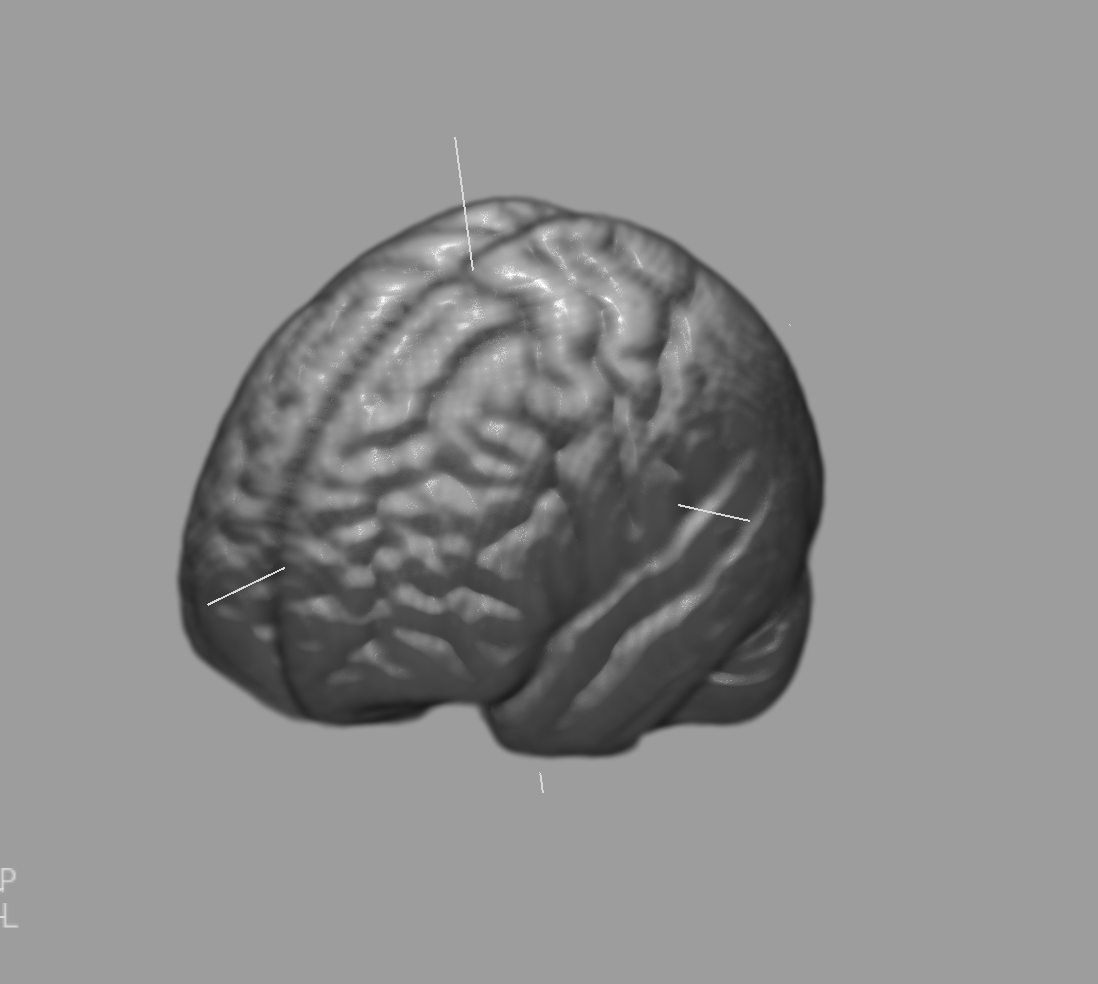
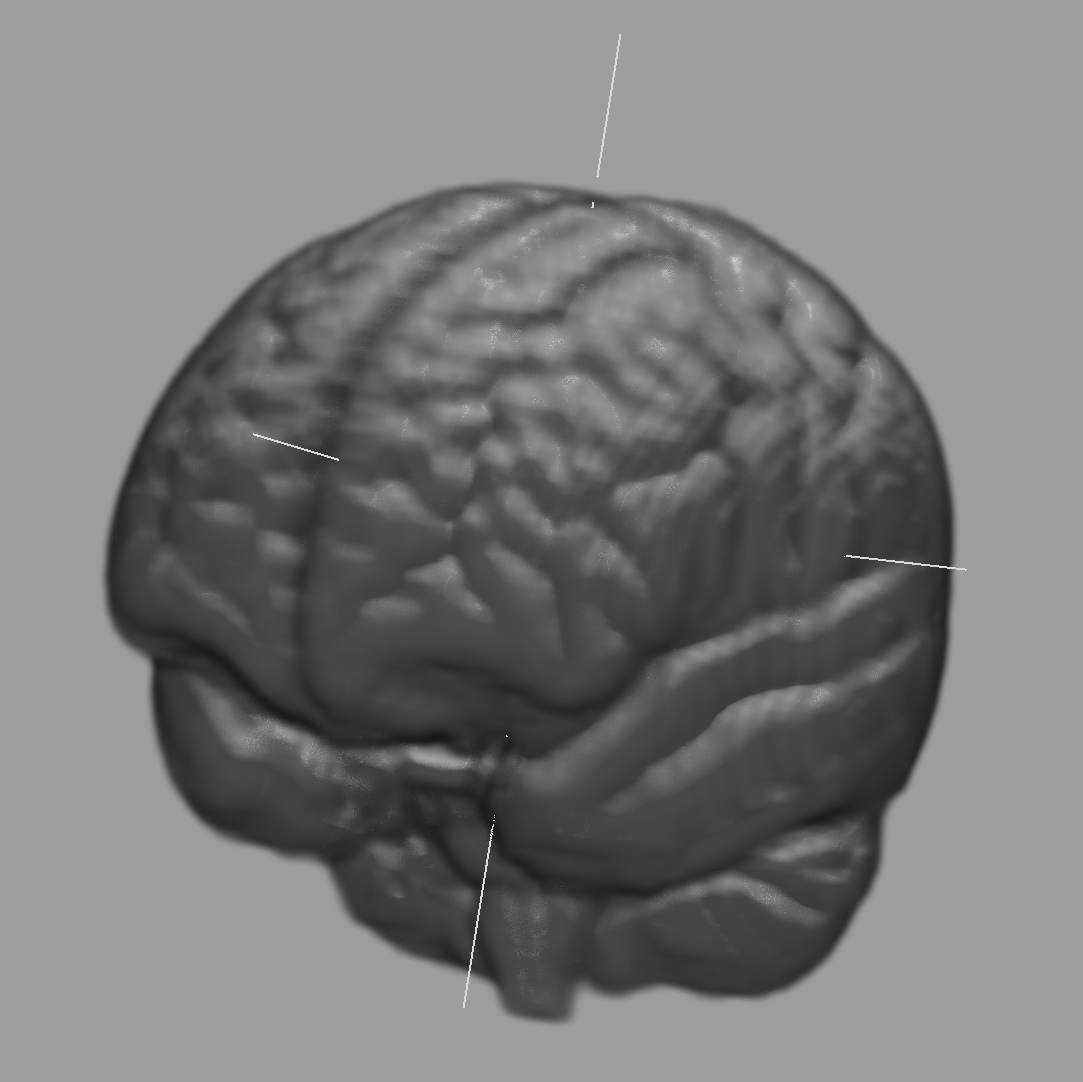
add social media + email buttons

diff --git a/index.html b/index.html
@@ -27,16 +27,21 @@
         </div>
         <i class="fa fa-bars" onclick="showMenu()"></i>
     </nav> 
-
 <div class="text-box">
     <h1>Meghan Walsh </h1>
-    <p>I am building neuroimaging tools, real-time fMRI pipelines, and reproducible research software <br> to advance our understanding of brain function and neurological disorders.<br>
+    <p>I am building neuroimaging tools, real-time fMRI pipelines, and reproducible research software <br> 
+        to advance our understanding of brain function and neurological disorders.<br>
     </p>
-    <a href="documents/Meghan Walsh - Curriculum Vitae.pdf" target="_blank" rel="noopener noreferrer" class="hero-btn">Curriculum Vitae</a>
+    <div class="button-row">
+        
+        <a href="mailto:Meghan.Walsh2@childrens.harvard.edu" target="_blank" rel="noopener noreferrer" class="hero-btn">Email</a>
+        <a href="https://www.linkedin.com/in/meghan-walsh-359789260/" target="_blank" rel="noopener noreferrer" class="hero-btn">LinkedIn</a>
+        <a href="https://github.com/MeghanW23/" target="_blank" rel="noopener noreferrer" class="hero-btn">GitHub</a>
+        <a href="documents/Meghan Walsh - Curriculum Vitae.pdf" target="_blank" rel="noopener noreferrer" class="hero-btn">Curriculum Vitae</a>
+    </div>
 </div>
-    
+</div>
 </section>
-
 <!-------- Projects ------->
 <section class="ongoing-projects">
     <h1>Ongoing Projects</h1>
@@ -61,7 +66,6 @@
         </div>
     </div>
 </section>
-
 <!------ Grants and Awards ------>
 <section class="grants-and-awards">
     <h1>Grants and Awards</h1>
@@ -132,6 +136,5 @@
         navLinks.style.right = "-200px"
     }
 </script>
-
 </body>
 </html>

diff --git a/style.css b/style.css
@@ -82,11 +82,19 @@ nav img {
     background: transparent;
     position: relative;
     cursor: pointer;
+    width: 130px;     
+    height: 20px;      
 }
 .hero-btn:hover{
     border: 1px solid #959597;
     background: #959597;
     transition: 1s;
+}
+.button-row {
+    display: flex;
+    justify-content: center;
+    gap: 15px;   /* spacing between buttons */
+    flex-wrap: wrap;
 }
 nav .fa{
     display: none;
